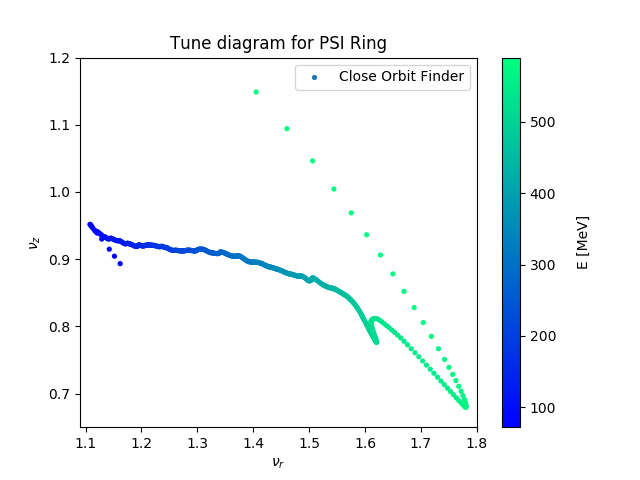
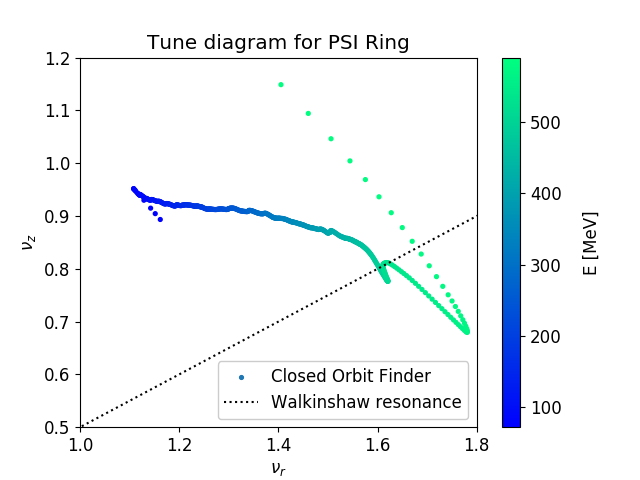
improve tune plot

diff --git a/Cyclotron/plotTunes.py b/Cyclotron/plotTunes.py
@@ -1,23 +1,33 @@
 # plotTunes.py by Chris Cortes
 # Adapted for wiki example by Jochem Snuverink
 
+import matplotlib as mpl
 import matplotlib.pyplot as plt
 import numpy as np
 
+mpl.rcParams['font.size']               = 12
+
 def main():
+    fig, ax = plt.subplots(1)
     tunesOPAL = np.loadtxt("data/tunes.dat",skiprows = 1, unpack =True)
     Nur = tunesOPAL[3]
     Nuz = tunesOPAL[4]
     E   = tunesOPAL[0]
-    plt.scatter(Nur,Nuz,c=E,cmap=plt.get_cmap('winter'),marker=".",s=30,label="Close Orbit Finder")
-    cbar = plt.colorbar()
+    pco = ax.scatter(Nur,Nuz,c=E,cmap=plt.get_cmap('winter'),marker=".",s=30,label="Closed Orbit Finder")
+    cbar = fig.colorbar(pco)
     cbar.set_label("E [MeV]", rotation = 90, labelpad = 15)
+    # Add Walkinshaw resonance
+    pwr = ax.plot([0,4],[0,2],':',color='black', label = 'Walkinshaw resonance')
     plt.xlabel(r"$\nu_r$")
     plt.ylabel(r"$\nu_z$")
     plt.title("Tune diagram for PSI Ring")
-    plt.xlim(1.09,1.8)
-    plt.ylim(0.65,1.2)
-    plt.legend(loc=0)
+    plt.xlim(1.0,1.8)
+    plt.ylim(0.5,1.2)
+    # legend order - reorder since for some reason reversed 
+    handles,labels = ax.get_legend_handles_labels()
+    handles = [handles[1], handles[0]]
+    labels  = [ labels[1],  labels[0]]
+    plt.legend(handles, labels, loc=0, framealpha=1.0)
     plt.savefig("RingTunes")
     #plt.show()
 

diff --git a/cyclotron.md b/cyclotron.md
@@ -47,7 +47,7 @@ The result is saved in cyclotron1.pdf and shown below.
 | [bfield.dat]( Cyclotron/bfield.dat) | magnetic field map |
 | [plotTunes.py]( Cyclotron/plotTunes.py) | python (version 3) plotting script for tune calculation |
 
-Since version 2.1 OPAL has a closed orbit finder with tune calculation.
+Since version 2.1 OPAL has a closed orbit finder with tune calculation based on Gordon's algorithm.
 
 The important commands in the input file are:
 
